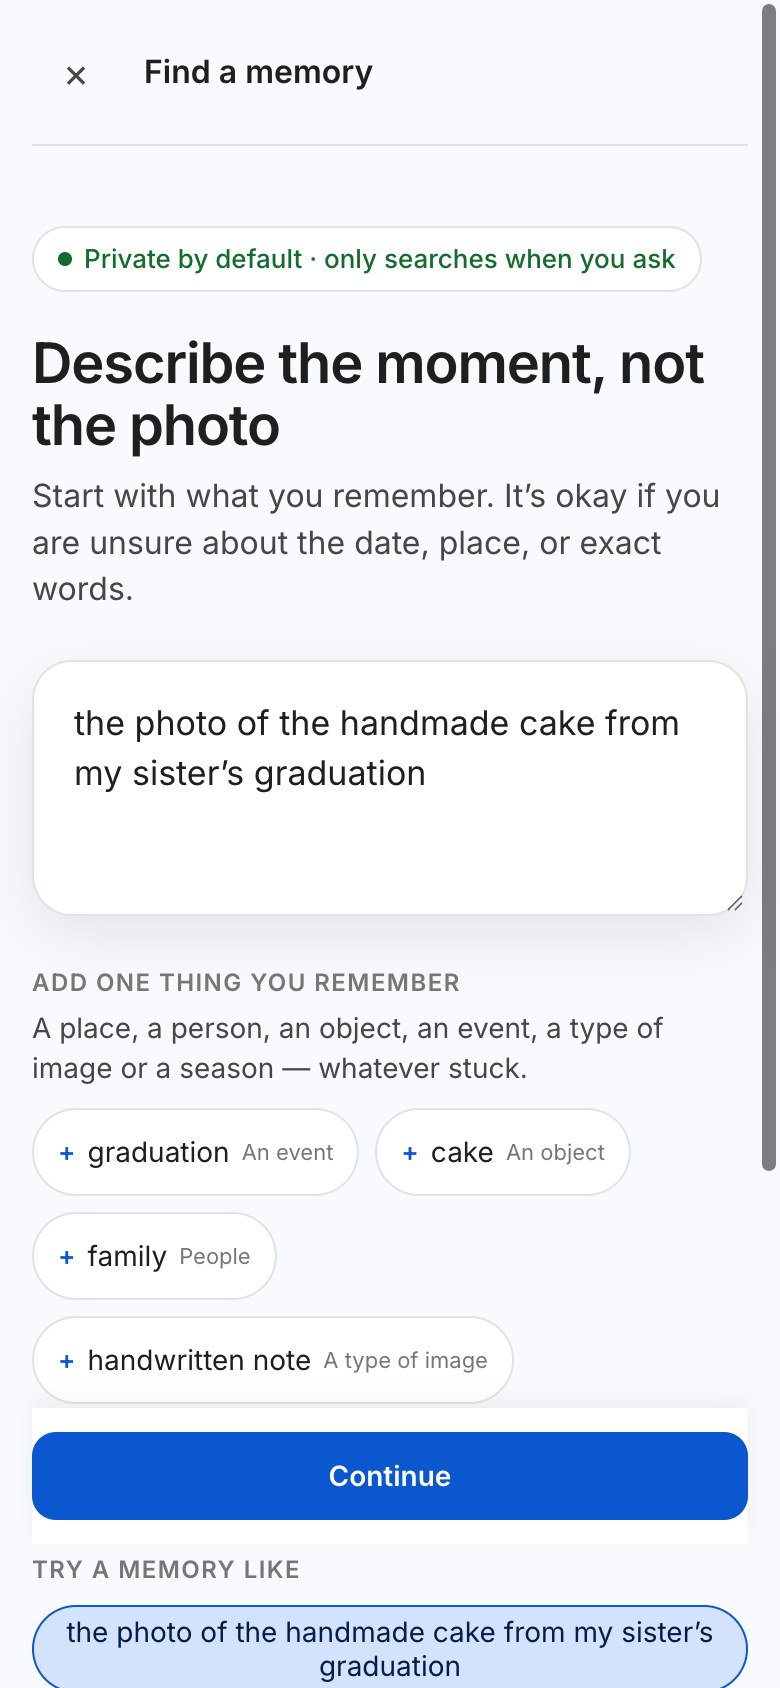
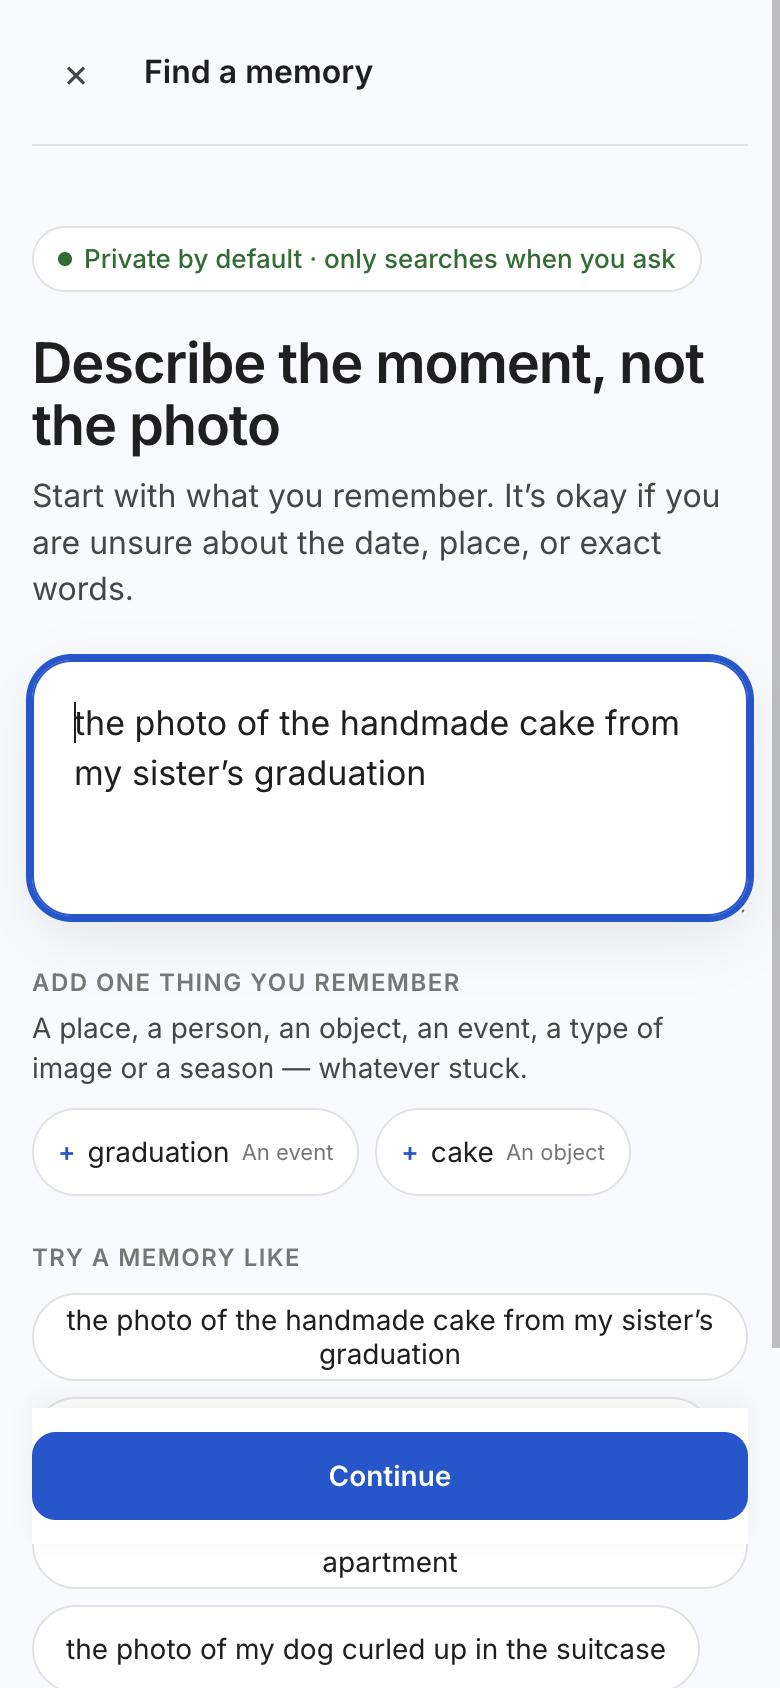
docs(testing): add the MVP user-test script and log; retake four MVP screenshots
- research/testing/mvp-test-script.md: 20-minute session (warm-up, cake task,
  vague dog task, 7 follow-up questions), study link ?study=P0N verified live
- research/testing/mvp-test-log.csv: one row per participant and task
- design/mvp-screenshots 2/3/4/7 retaken 1 Oct from the live site: pictures-first
  moment card, no "how certain" step, the "Class of 2013" cake no longer shown

Claude-Session: https://claude.ai/code/session_01WtKiUqK1BMyPZ4FdQe3JNQ

diff --git a/research/testing/mvp-test-script.md b/research/testing/mvp-test-script.md
@@ -1,0 +1,84 @@
+# Memory Trails: user test script (about 20 minutes per person)
+
+**Goal:** can people who half-remember a photo get back to it with Memory Trails, and are they sure it's the right one?
+**People:** at least 3. Survey respondents who said "yes" to a call are ideal.
+**You need:** the participant on a call with screen share (phone or laptop), this script, and the recording sheet (`mvp-test-log.csv`).
+
+---
+
+## Before the call (2 min)
+
+1. Give each person an ID: P01, P02, P03…
+2. Send them this link (change the ID each time): `https://memory-trails-demo.vercel.app/?study=P01`
+3. Check the top bar shows **"Study: P01"** and **"End session: copy log"**. (Checked: it works.)
+
+---
+
+## 1 · Open (2 min). Read this out
+
+> "Thanks for helping. I'm testing an idea, not you, so there are no wrong answers. If something is confusing, that's the app's fault.
+> Please think out loud as you go: say what you're looking at and what you're trying to do.
+> What you type will be recorded as text for this study. No photos of yours are used. It's a demo library."
+
+## 2 · Warm-up (3 min)
+
+Ask, and write down their answers word for word:
+
+1. "Think of the last time you looked for an old photo and struggled. What was it?"
+2. "What did you remember about it, and what had you forgotten?"
+3. "What did you type, or what did you do?"
+
+## 3 · Task A: the main task (5 min max). Read it out; don't show the wording
+
+> "Imagine you're looking for **the photo of the handmade cake from your sister's graduation**. You remember the event and what the photo looked like, but not the date or the album. Find it."
+
+## 4 · Task B: a vague memory (5 min max)
+
+> "Now imagine you're looking for **a photo of your dog from a while back**. That's all you remember. Find it."
+
+This one is meant to be harder. If they don't find it, that's a useful result too.
+
+**During both tasks:**
+- **Don't help or explain.** If they're silent for about 30 seconds, ask: "What are you looking for right now?"
+- **Stop at 5 minutes.** Say: "That's great, thanks, let's stop there."
+- **Note:** whether they edit a clue, tap "Why this moment?", or use "Not this moment".
+
+## 5 · Questions after the tasks (5 min)
+
+Ask in this order. Don't suggest answers.
+
+1. "In your own words, what did the app do with what you typed?"
+2. "Was there a moment you didn't know what to do next? What did you do?"
+3. "How sure are you that the photo you picked was the right one, from 1 to 5? Why?"
+4. "Did you notice the ✓ marks, or 'Why this moment?'. Did they change what you did?"
+5. "How is this different from how you normally look for old photos?"
+6. "Would you want Google Photos to show you how it understood your words?"
+7. "If you could change one thing, what would it be?"
+
+## 6 · Close (1 min)
+
+1. Tap **"End session: copy log"** and paste it into a note named `P01_session.json`.
+2. Thank them.
+
+---
+
+## What to fill in after each person
+
+One row per task in `mvp-test-log.csv`:
+
+| Column | What to write |
+|---|---|
+| `participant` | P01 |
+| `task` | A (cake) or B (dog) |
+| `found_in_5min` | yes / no |
+| `seconds` | time to tap "That's the one", or 300 if stopped |
+| `wrong_confirm` | yes if they confirmed a photo that **wasn't** the target |
+| `clue_edits` | how many clues they changed, added or removed |
+| `opened_why` | yes / no: tapped "Why this moment?" |
+| `used_not_this_moment` | yes / no |
+| `sure_1to5` | their answer to question 3 |
+| `best_quote` | one line they said, word for word |
+
+**When you're done, send me the sheet and the session logs.** I'll fill slide 8 and the takeaway.
+
+**The one rule:** if they confirm the wrong photo, write it down, even if it feels awkward. Wrong confirmations are the guardrail metric, and an honest count of 1 beats a hidden one.
